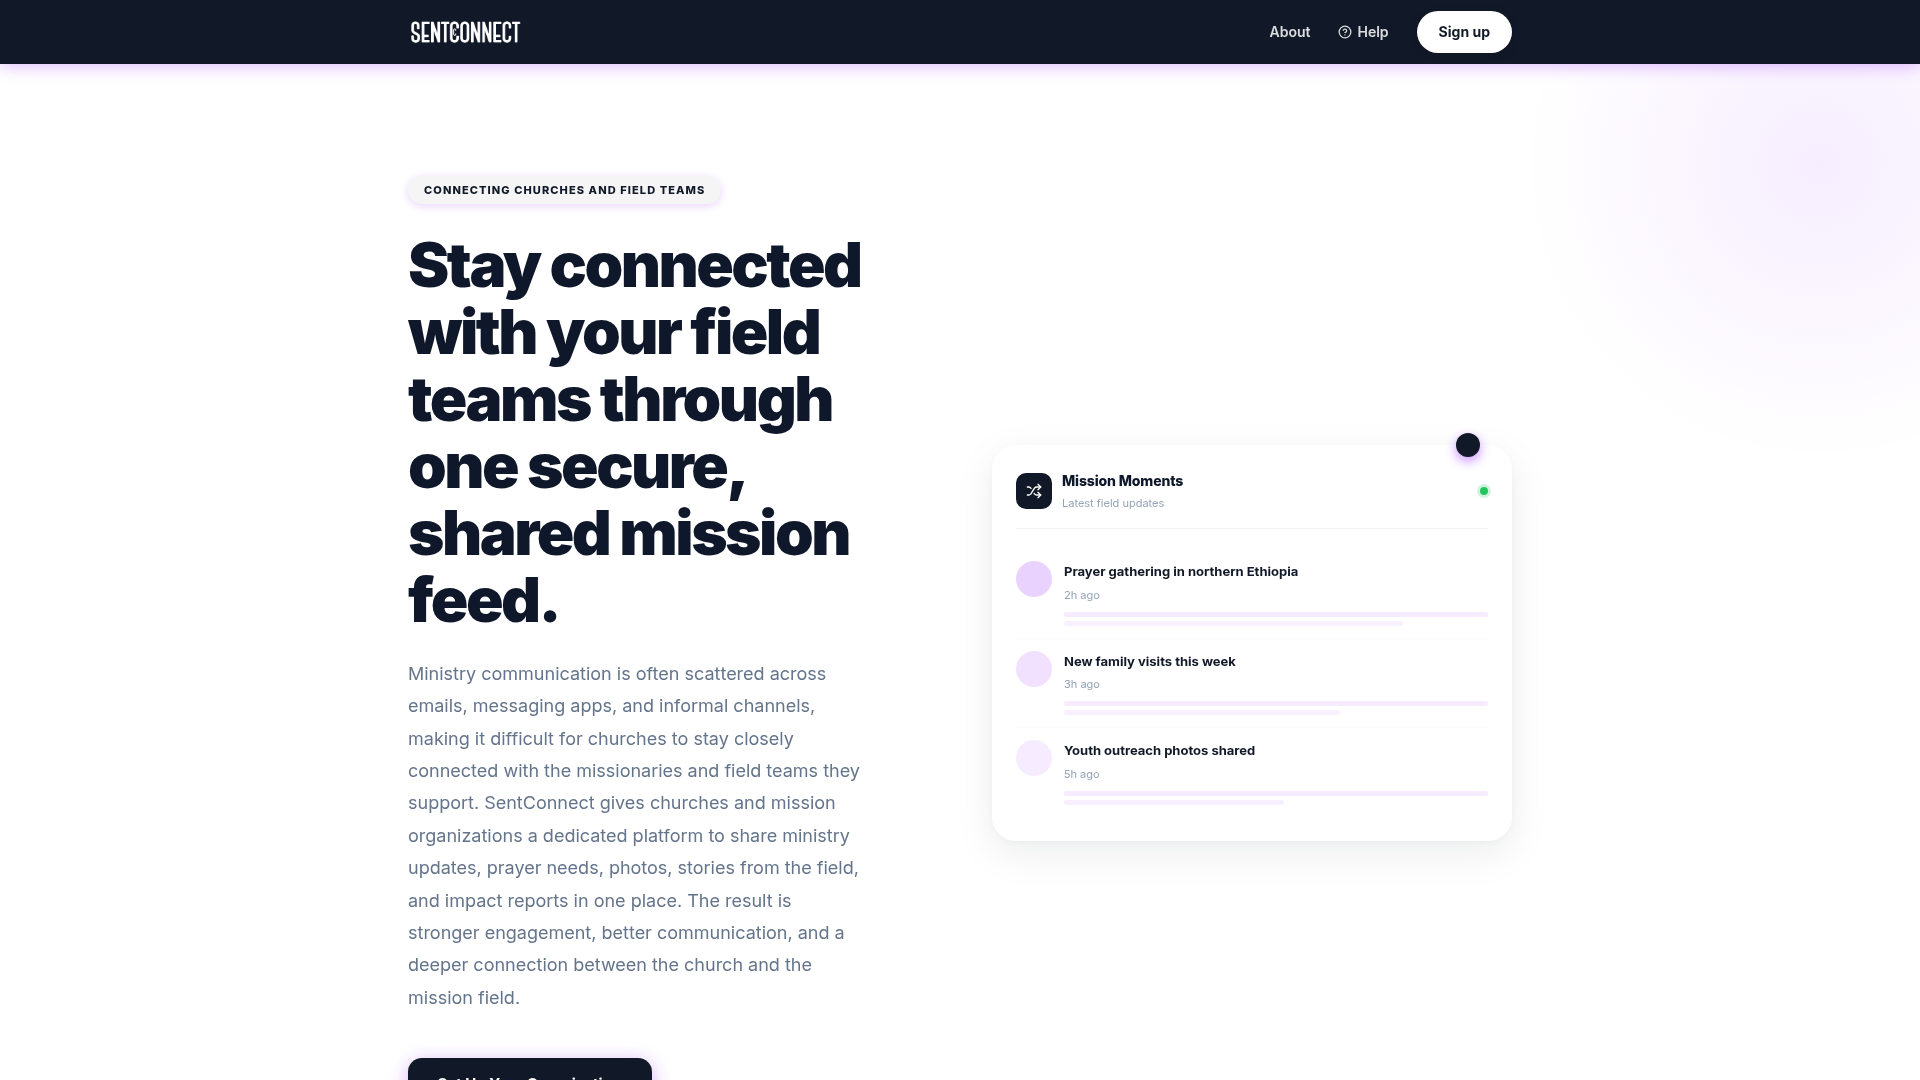
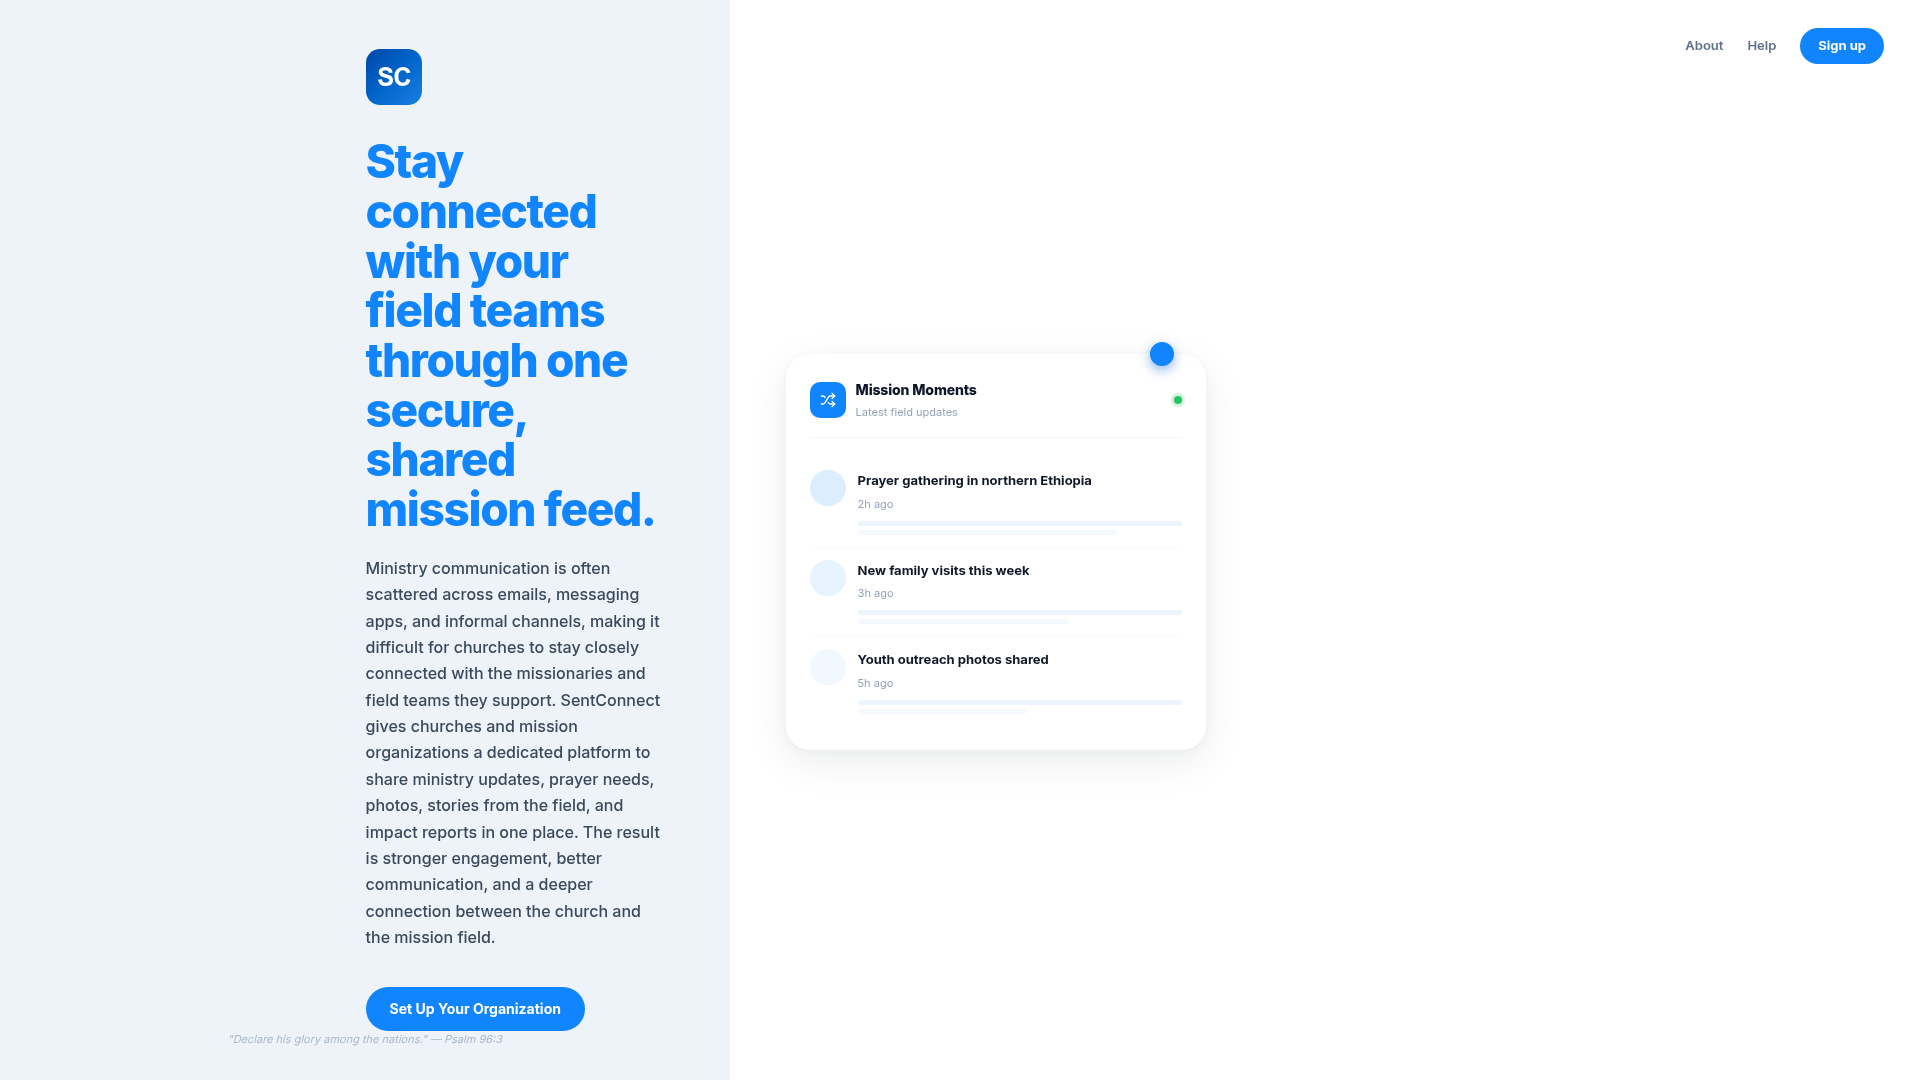
Restore original landing page design with blue color scheme
Reverts the landing page to its original layout, including a sticky blue header and a full-width hero section, while retaining the current blue color palette.

Replit-Commit-Author: Agent
Replit-Commit-Session-Id: 67703e95-de7f-4580-995f-84446d52c419
Replit-Commit-Checkpoint-Type: full_checkpoint
Replit-Commit-Event-Id: b22a8607-7526-4304-9bc3-d369627b6108
Replit-Commit-Screenshot-Url: https://storage.googleapis.com/screenshot-production-us-central1/ee3a6125-4ede-4b8c-9bf0-800e83365df3/67703e95-de7f-4580-995f-84446d52c419/i6GabO3
Replit-Helium-Checkpoint-Created: true

diff --git a/artifacts/mission-reports/src/App.tsx b/artifacts/mission-reports/src/App.tsx
@@ -113,6 +113,7 @@ const DEFAULT_LANDING_PAGE_CONTENT: LandingPageContent = {
 
 function LandingPage() {
   const [content, setContent] = useState<LandingPageContent>(DEFAULT_LANDING_PAGE_CONTENT);
+  const [mobileNavOpen, setMobileNavOpen] = useState(false);
   const { logo: lpLogo, footerLogo: lpFooterLogo } = useLogo();
   const [, navigate] = useLocation();
 
@@ -145,105 +146,153 @@ function LandingPage() {
   const BG        = "#FFFFFF";
 
   return (
-    <div style={{ fontFamily: "'Inter', system-ui, -apple-system, sans-serif", color: TEXT }}>
+    <div className="min-h-screen" style={{ fontFamily: "'Inter', system-ui, -apple-system, sans-serif", background: BG, color: TEXT }}>
+      {/* ── HEADER ── */}
+      <header style={{ position: "sticky", top: 0, zIndex: 50, background: BLUE, boxShadow: "0 2px 16px rgba(0,89,214,0.28)" }}>
+        <div className="mx-auto flex max-w-6xl items-center justify-between px-4 sm:px-6" style={{ height: 64 }}>
+          <a href="/" style={{ textDecoration: "none", display: "flex", alignItems: "center" }}>
+            <img src={logoWhite} alt="SentConnect" style={{ maxHeight: 26, width: "auto", maxWidth: 160, display: "block" }} />
+          </a>
 
-      {/* ── HERO — full-height split panel (matches Sign in aesthetic) ── */}
-      <div style={{ minHeight: "100dvh", display: "flex" }}>
-
-        {/* ── Left panel (hidden on mobile) ── */}
-        <div className="hidden md:flex" style={{ flex: "0 0 38%", background: "#EEF2F9", flexDirection: "column", alignItems: "flex-end", justifyContent: "center", padding: "48px 64px 48px 40px", position: "relative" }}>
-          <div style={{ maxWidth: 300 }}>
-            <img src="/favicon.svg" alt="SentConnect" style={{ width: 56, height: 56, borderRadius: 14, marginBottom: 32, display: "block" }} />
-            <p style={{ fontSize: "clamp(32px, 3.5vw, 46px)", fontWeight: 800, color: BLUE, letterSpacing: "-0.03em", lineHeight: 1.08, margin: "0 0 20px" }}>
-              {content.heroTitle}
-            </p>
-            <p style={{ fontSize: 16, fontWeight: 500, color: "#3A4A5C", margin: "0 0 36px", lineHeight: 1.65 }}>
-              {content.heroDescription}
-            </p>
-            <div style={{ display: "flex", gap: 10, flexWrap: "wrap" }}>
-              <a
-                href={content.primaryCtaHref}
-                onClick={e => handleCtaClick(e, content.primaryCtaHref)}
-                style={{ height: 44, borderRadius: 999, background: BLUE, color: "#fff", fontSize: 14, fontWeight: 700, textDecoration: "none", display: "inline-flex", alignItems: "center", padding: "0 24px", whiteSpace: "nowrap", transition: "background .15s" }}
-                onMouseEnter={e => { (e.currentTarget as HTMLElement).style.background = "#0053CC"; }}
-                onMouseLeave={e => { (e.currentTarget as HTMLElement).style.background = BLUE; }}
-              >{content.primaryCtaLabel}</a>
-            </div>
-          </div>
-          <p style={{ position: "absolute", bottom: 32, left: 0, right: 0, textAlign: "center", fontSize: 11, color: "#A8B8CC", fontStyle: "italic", margin: 0 }}>
-            "Declare his glory among the nations." — Psalm 96:3
-          </p>
-        </div>
-
-        {/* ── Right panel ── */}
-        <div style={{ flex: 1, background: "#fff", display: "flex", flexDirection: "column", alignItems: "flex-start", justifyContent: "center", padding: "72px 48px 48px 56px", position: "relative" }}>
-
-          {/* Nav links — top right (desktop) */}
-          <div className="hidden sm:flex" style={{ position: "absolute", top: 28, right: 36, alignItems: "center", gap: 24 }}>
-            <a href="/about" style={{ fontSize: 13, fontWeight: 600, color: "#607089", textDecoration: "none", transition: "color .15s" }}
-              onMouseEnter={e => { (e.currentTarget as HTMLElement).style.color = "#111827"; }}
-              onMouseLeave={e => { (e.currentTarget as HTMLElement).style.color = "#607089"; }}
+          {/* Desktop nav */}
+          <nav className="hidden sm:flex" style={{ alignItems: "center", gap: 28 }}>
+            <a
+              href="/about"
+              style={{ fontSize: 14, fontWeight: 600, color: "rgba(255,255,255,0.85)", textDecoration: "none", transition: "color .15s" }}
+              onMouseEnter={e => { (e.currentTarget as HTMLElement).style.color = "#fff"; }}
+              onMouseLeave={e => { (e.currentTarget as HTMLElement).style.color = "rgba(255,255,255,0.85)"; }}
             >About</a>
-            <a href="/help" target="_blank" rel="noopener noreferrer" style={{ fontSize: 13, fontWeight: 600, color: "#607089", textDecoration: "none", transition: "color .15s" }}
-              onMouseEnter={e => { (e.currentTarget as HTMLElement).style.color = "#111827"; }}
-              onMouseLeave={e => { (e.currentTarget as HTMLElement).style.color = "#607089"; }}
-            >Help</a>
+            <a
+              href="/help"
+              target="_blank"
+              rel="noopener noreferrer"
+              style={{ fontSize: 14, fontWeight: 600, color: "rgba(255,255,255,0.85)", textDecoration: "none", transition: "color .15s", display: "inline-flex", alignItems: "center", gap: 5 }}
+              onMouseEnter={e => { (e.currentTarget as HTMLElement).style.color = "#fff"; }}
+              onMouseLeave={e => { (e.currentTarget as HTMLElement).style.color = "rgba(255,255,255,0.85)"; }}
+            >
+              <svg width="14" height="14" viewBox="0 0 24 24" fill="none" stroke="currentColor" strokeWidth="2.2" strokeLinecap="round" strokeLinejoin="round"><circle cx="12" cy="12" r="10"/><path d="M9.09 9a3 3 0 0 1 5.83 1c0 2-3 3-3 3"/><line x1="12" y1="17" x2="12.01" y2="17"/></svg>
+              Help
+            </a>
             <a
               href={content.headerPrimaryCtaHref}
               onClick={e => handleCtaClick(e, content.headerPrimaryCtaHref)}
-              style={{ height: 36, borderRadius: 999, background: BLUE, color: "#fff", fontSize: 13, fontWeight: 700, textDecoration: "none", display: "inline-flex", alignItems: "center", padding: "0 18px", transition: "background .15s" }}
-              onMouseEnter={e => { (e.currentTarget as HTMLElement).style.background = "#0053CC"; }}
-              onMouseLeave={e => { (e.currentTarget as HTMLElement).style.background = BLUE; }}
+              style={{ fontSize: 14, fontWeight: 700, color: "#111827", background: "#FFFFFF", padding: "9px 22px", borderRadius: 999, textDecoration: "none", boxShadow: "0 2px 10px rgba(0,0,0,0.14)", transition: "background .15s, transform .15s, box-shadow .15s", display: "inline-flex", alignItems: "center" }}
+              onMouseEnter={e => { const el = e.currentTarget as HTMLElement; el.style.background = "#F5F5F5"; el.style.transform = "translateY(-1px)"; el.style.boxShadow = "0 4px 16px rgba(0,0,0,0.18)"; }}
+              onMouseLeave={e => { const el = e.currentTarget as HTMLElement; el.style.background = "#FFFFFF"; el.style.transform = "translateY(0)"; el.style.boxShadow = "0 2px 10px rgba(0,0,0,0.14)"; }}
             >{content.headerPrimaryCtaLabel}</a>
-          </div>
+          </nav>
 
-          {/* Mobile heading */}
-          <div className="md:hidden" style={{ width: "100%", maxWidth: 400, marginBottom: 32 }}>
-            <img src="/favicon.svg" alt="SentConnect" style={{ width: 44, height: 44, borderRadius: 11, marginBottom: 20, display: "block" }} />
-            <p style={{ fontSize: 32, fontWeight: 800, color: BLUE, letterSpacing: "-0.03em", lineHeight: 1.1, margin: "0 0 12px" }}>
-              {content.heroTitle}
-            </p>
-            <p style={{ fontSize: 15, color: "#3A4A5C", margin: "0 0 24px", lineHeight: 1.65 }}>
-              {content.heroDescription}
-            </p>
+          {/* Mobile: Sign up pill + hamburger */}
+          <div className="flex sm:hidden items-center gap-3">
             <a
-              href={content.primaryCtaHref}
-              onClick={e => handleCtaClick(e, content.primaryCtaHref)}
-              style={{ height: 44, borderRadius: 999, background: BLUE, color: "#fff", fontSize: 14, fontWeight: 700, textDecoration: "none", display: "inline-flex", alignItems: "center", padding: "0 24px" }}
-            >{content.primaryCtaLabel}</a>
-          </div>
-
-          {/* Mission Moments preview card */}
-          <div style={{ width: "100%", maxWidth: 420, background: "#fff", borderRadius: 24, boxShadow: "0 12px 40px rgba(15,23,42,0.08), 0 2px 8px rgba(15,23,42,0.04)", padding: "24px", position: "relative" }}>
-            <div style={{ position: "absolute", top: -12, right: 32, width: 24, height: 24, borderRadius: "50%", background: BLUE, boxShadow: "0 4px 12px rgba(0,89,214,0.45)" }} />
-            <div style={{ display: "flex", alignItems: "center", gap: 10, marginBottom: 20, paddingBottom: 16, borderBottom: "1px solid #F1F5F9" }}>
-              <div style={{ width: 36, height: 36, borderRadius: 10, background: BLUE, display: "flex", alignItems: "center", justifyContent: "center", flexShrink: 0 }}>
-                <Shuffle style={{ width: 16, height: 16, color: "#fff" }} />
-              </div>
-              <div>
-                <p style={{ fontSize: 14, fontWeight: 800, color: TEXT, margin: 0, letterSpacing: "-0.01em" }}>{content.previewCardTitle}</p>
-                <p style={{ fontSize: 11, color: "#94A3B8", margin: "2px 0 0" }}>{content.previewLabel}</p>
-              </div>
-              <div style={{ marginLeft: "auto", width: 8, height: 8, borderRadius: "50%", background: "#22C55E", boxShadow: "0 0 0 3px rgba(34,197,94,0.2)" }} />
-            </div>
-            {[
-              { title: content.previewTitle1, ago: "2h ago", w: "80%", color: "rgba(16,133,253,0.15)" },
-              { title: content.previewTitle2, ago: "3h ago", w: "65%", color: "rgba(16,133,253,0.10)" },
-              { title: content.previewTitle3, ago: "5h ago", w: "52%", color: "rgba(16,133,253,0.06)" },
-            ].map(({ title, ago, w, color }, i) => (
-              <div key={i} style={{ display: "flex", alignItems: "flex-start", gap: 12, padding: "12px 0", borderBottom: i < 2 ? "1px solid #F8FAFC" : "none" }}>
-                <div style={{ width: 36, height: 36, borderRadius: "50%", background: color, flexShrink: 0 }} />
-                <div style={{ flex: 1, minWidth: 0 }}>
-                  <p style={{ fontSize: 13, fontWeight: 700, color: "#111827", margin: "0 0 3px", whiteSpace: "nowrap", overflow: "hidden", textOverflow: "ellipsis" }}>{title}</p>
-                  <p style={{ fontSize: 11, color: "#94A3B8", margin: "0 0 8px" }}>{ago}</p>
-                  <div style={{ height: 5, background: "rgba(16,133,253,0.08)", borderRadius: 999, width: "100%" }} />
-                  <div style={{ height: 5, background: "rgba(16,133,253,0.05)", borderRadius: 999, width: w, marginTop: 4 }} />
-                </div>
-              </div>
-            ))}
+              href={content.headerPrimaryCtaHref}
+              onClick={e => handleCtaClick(e, content.headerPrimaryCtaHref)}
+              style={{ fontSize: 13, fontWeight: 700, color: "#111827", background: "#FFFFFF", padding: "7px 16px", borderRadius: 999, textDecoration: "none" }}
+            >{content.headerPrimaryCtaLabel}</a>
+            <button
+              onClick={() => setMobileNavOpen(o => !o)}
+              style={{ background: "rgba(255,255,255,0.15)", border: "none", borderRadius: 8, padding: "7px 8px", cursor: "pointer", display: "flex", alignItems: "center", justifyContent: "center" }}
+              aria-label="Menu"
+            >
+              {mobileNavOpen
+                ? <svg width="20" height="20" viewBox="0 0 24 24" fill="none" stroke="white" strokeWidth="2.2"><path d="M18 6L6 18M6 6l12 12"/></svg>
+                : <svg width="20" height="20" viewBox="0 0 24 24" fill="none" stroke="white" strokeWidth="2.2"><path d="M3 12h18M3 6h18M3 18h18"/></svg>
+              }
+            </button>
           </div>
         </div>
-      </div>
+
+        {/* Mobile dropdown */}
+        {mobileNavOpen && (
+          <div className="sm:hidden" style={{ background: BLUE_DARK, borderTop: "1px solid rgba(255,255,255,0.15)", padding: "12px 16px 16px" }}>
+            <a
+              href="/about"
+              style={{ display: "flex", alignItems: "center", padding: "12px 0", fontSize: 15, fontWeight: 600, color: "rgba(255,255,255,0.9)", textDecoration: "none", borderBottom: "1px solid rgba(255,255,255,0.1)" }}
+              onClick={() => setMobileNavOpen(false)}
+            >About</a>
+            <a
+              href="/help"
+              target="_blank"
+              rel="noopener noreferrer"
+              style={{ display: "flex", alignItems: "center", gap: 8, padding: "12px 0", fontSize: 15, fontWeight: 600, color: "rgba(255,255,255,0.9)", textDecoration: "none" }}
+              onClick={() => setMobileNavOpen(false)}
+            >
+              <svg width="16" height="16" viewBox="0 0 24 24" fill="none" stroke="currentColor" strokeWidth="2.2" strokeLinecap="round" strokeLinejoin="round"><circle cx="12" cy="12" r="10"/><path d="M9.09 9a3 3 0 0 1 5.83 1c0 2-3 3-3 3"/><line x1="12" y1="17" x2="12.01" y2="17"/></svg>
+              Help
+            </a>
+          </div>
+        )}
+      </header>
+
+      <main>
+        {/* ── HERO ── */}
+        <section className="lp-hero-section" style={{ background: "#FFFFFF", position: "relative", overflow: "hidden", borderBottom: "1px solid #F1F5F9" }}>
+          {/* subtle blue glow */}
+          <div style={{ position: "absolute", top: -160, right: -160, width: 520, height: 520, borderRadius: "50%", background: "radial-gradient(circle, rgba(16,133,253,0.07) 0%, transparent 70%)", pointerEvents: "none" }} />
+          <div style={{ position: "absolute", bottom: -100, left: -100, width: 380, height: 380, borderRadius: "50%", background: "radial-gradient(circle, rgba(16,133,253,0.04) 0%, transparent 70%)", pointerEvents: "none" }} />
+
+          <div className="lp-hero-grid mx-auto max-w-6xl px-6">
+            {/* Left */}
+            <div>
+              <div className="lp-animate lp-delay-1" style={{ display: "inline-flex", alignItems: "center", marginBottom: 28, background: "#EEF5FF", borderRadius: 999, padding: "5px 16px", border: "1px solid rgba(16,133,253,0.2)" }}>
+                <span style={{ fontSize: 11, fontWeight: 800, color: BLUE, letterSpacing: "0.1em", textTransform: "uppercase" }}>{content.heroEyebrow}</span>
+              </div>
+
+              <h1 className="lp-animate lp-delay-2" style={{ fontSize: "clamp(42px, 5.5vw, 62px)", fontWeight: 900, lineHeight: 1.08, letterSpacing: "-0.04em", color: TEXT, margin: "0 0 24px", whiteSpace: "pre-line" }}>
+                {content.heroTitle}
+              </h1>
+
+              <p className="lp-animate lp-delay-3" style={{ fontSize: 18, lineHeight: 1.8, color: TEXT2, maxWidth: 460, margin: "0 0 44px" }}>
+                {content.heroDescription}
+              </p>
+
+              <div className="lp-animate lp-delay-4">
+                <a
+                  href={content.primaryCtaHref}
+                  onClick={e => handleCtaClick(e, content.primaryCtaHref)}
+                  style={{ display: "inline-flex", alignItems: "center", height: 52, padding: "0 30px", borderRadius: 999, background: TEAL, color: "#fff", fontSize: 15, fontWeight: 700, textDecoration: "none", boxShadow: "0 4px 20px rgba(16,185,129,0.4)", transition: "background .15s, transform .15s, box-shadow .15s" }}
+                  onMouseEnter={e => { const el = e.currentTarget as HTMLElement; el.style.background = TEAL_DARK; el.style.transform = "translateY(-1px)"; el.style.boxShadow = "0 8px 28px rgba(16,185,129,0.5)"; }}
+                  onMouseLeave={e => { const el = e.currentTarget as HTMLElement; el.style.background = TEAL; el.style.transform = "translateY(0)"; el.style.boxShadow = "0 4px 20px rgba(16,185,129,0.4)"; }}
+                >{content.primaryCtaLabel}</a>
+              </div>
+            </div>
+
+            {/* Right — Mission Moments card */}
+            <div className="lp-animate lp-delay-5" style={{ background: "#fff", borderRadius: 24, boxShadow: "0 12px 40px rgba(15,23,42,0.08), 0 2px 8px rgba(15,23,42,0.04)", padding: "24px", position: "relative" }}>
+              {/* accent dot */}
+              <div style={{ position: "absolute", top: -12, right: 32, width: 24, height: 24, borderRadius: "50%", background: BLUE, boxShadow: "0 4px 12px rgba(0,89,214,0.45)" }} />
+
+              {/* card header */}
+              <div style={{ display: "flex", alignItems: "center", gap: 10, marginBottom: 20, paddingBottom: 16, borderBottom: "1px solid #F1F5F9" }}>
+                <div style={{ width: 36, height: 36, borderRadius: 10, background: BLUE, display: "flex", alignItems: "center", justifyContent: "center", flexShrink: 0 }}>
+                  <Shuffle style={{ width: 16, height: 16, color: "#fff" }} />
+                </div>
+                <div>
+                  <p style={{ fontSize: 14, fontWeight: 800, color: TEXT, margin: 0, letterSpacing: "-0.01em" }}>{content.previewCardTitle}</p>
+                  <p style={{ fontSize: 11, color: "#94A3B8", margin: "2px 0 0" }}>{content.previewLabel}</p>
+                </div>
+                <div style={{ marginLeft: "auto", width: 8, height: 8, borderRadius: "50%", background: "#22C55E", boxShadow: "0 0 0 3px rgba(34,197,94,0.2)" }} />
+              </div>
+
+              {/* feed rows */}
+              {[
+                { title: content.previewTitle1, ago: "2h ago", w: "80%", color: "rgba(16,133,253,0.15)" },
+                { title: content.previewTitle2, ago: "3h ago", w: "65%", color: "rgba(16,133,253,0.10)" },
+                { title: content.previewTitle3, ago: "5h ago", w: "52%", color: "rgba(16,133,253,0.06)" },
+              ].map(({ title, ago, w, color }, i) => (
+                <div key={i} style={{ display: "flex", alignItems: "flex-start", gap: 12, padding: "12px 0", borderBottom: i < 2 ? "1px solid #F8FAFC" : "none" }}>
+                  <div style={{ width: 36, height: 36, borderRadius: "50%", background: color, flexShrink: 0 }} />
+                  <div style={{ flex: 1, minWidth: 0 }}>
+                    <p style={{ fontSize: 13, fontWeight: 700, color: "#111827", margin: "0 0 3px", whiteSpace: "nowrap", overflow: "hidden", textOverflow: "ellipsis" }}>{title}</p>
+                    <p style={{ fontSize: 11, color: "#94A3B8", margin: "0 0 8px" }}>{ago}</p>
+                    <div style={{ height: 5, background: "rgba(16,133,253,0.08)", borderRadius: 999, width: "100%" }} />
+                    <div style={{ height: 5, background: "rgba(16,133,253,0.05)", borderRadius: 999, width: w, marginTop: 4 }} />
+                  </div>
+                </div>
+              ))}
+            </div>
+          </div>
+        </section>
 
         {/* ── HOW IT WORKS ── */}
         <section style={{ background: "#fff", padding: "112px 0" }}>
@@ -292,6 +341,7 @@ function LandingPage() {
             >{content.primaryCtaLabel}</a>
           </div>
         </section>
+      </main>
 
       {/* ── FOOTER ── */}
       <footer style={{ background: `linear-gradient(180deg, #263341 0%, ${CHARCOAL} 100%)`, padding: "72px 24px 0" }}>
